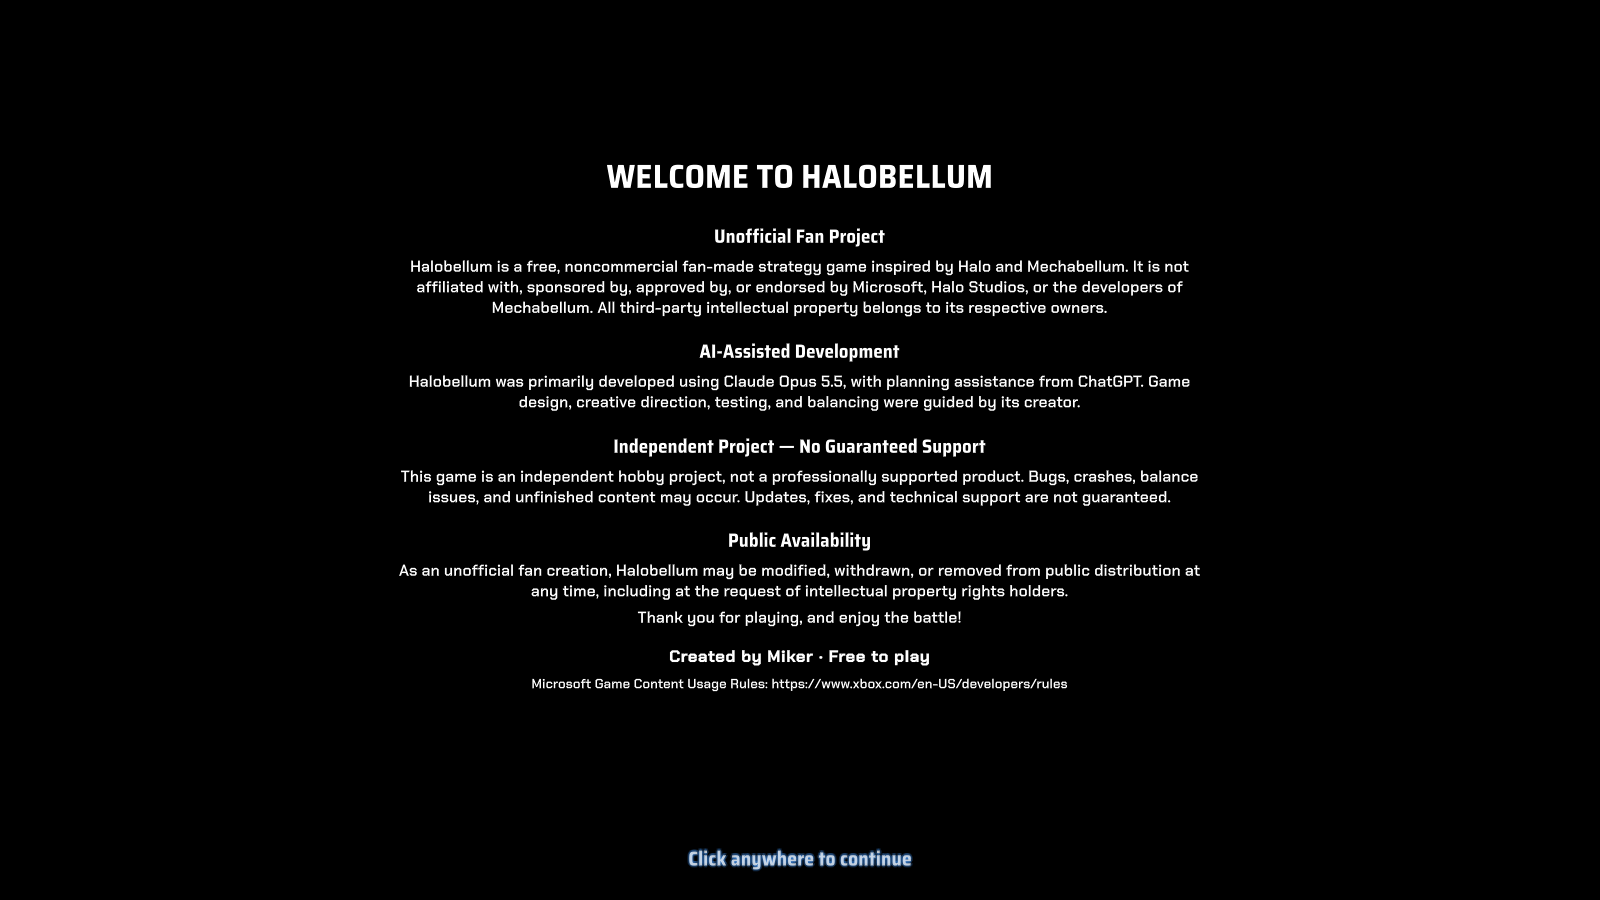
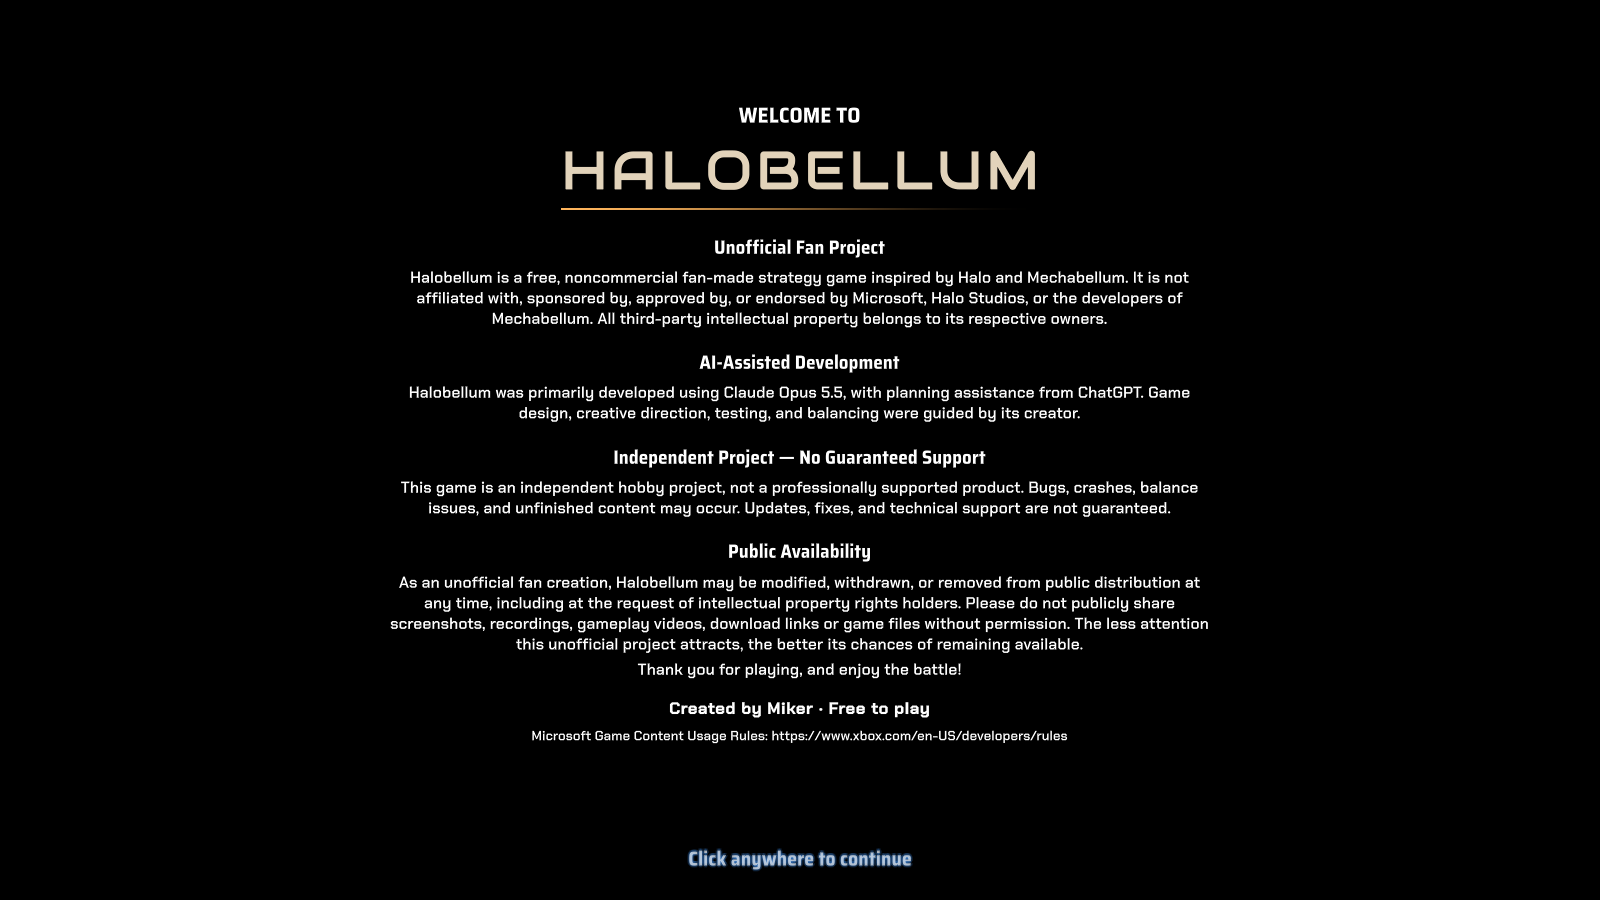
The disclaimer's request not to share and HALOBELLUM in the menu's title font and colour; the version in small print in the main menu's lower left (D100); the picture run also takes the menu; tests

Changed region(s): [[0.25, 0.2489, 0.75, 0.84], [0.3438, 0.0933, 0.6562, 0.2178]]

diff --git a/Assets/_Project/Scripts/UI/Menu/Disclaimer.cs b/Assets/_Project/Scripts/UI/Menu/Disclaimer.cs
@@ -1,6 +1,6 @@
 // Disclaimer.cs
 // The owner's disclaimer (D96), shown once each time the game starts, before the main menu: white text on black, centred, and a glowing
-// "Click anywhere to continue" that pulses. A click or a key goes on to the menu, which then fades in (MainMenuHud). The link to Microsoft's
+// "Click anywhere to continue" that pulses. HALOBELLUM is written as the main menu writes it: its title font and colour, spaced, underlined in its accent. A click or a key goes on to the menu, which then fades in (MainMenuHud). The link to Microsoft's
 // Game Content Usage Rules opens in the browser when clicked, and does not go on. The text shrinks to fit any window.
 // It is skipped in batch runs (tests) and in the picture runs (a -...Demo or -gallery flag); -disclaimerPicture <png> shows it, saves a
 // picture of it and quits.
@@ -17,12 +17,13 @@ namespace Halobellum.UI
         public const string Link = "https://www.xbox.com/en-US/developers/rules";
         public const string Continue = "Click anywhere to continue";
 
-        private enum Kind { Title, Heading, Text, Signature, Link }
+        private enum Kind { Title, Brand, Heading, Text, Signature, Link }
 
         // The owner's words, as given (2026-11-07).
         private static readonly (Kind kind, string text)[] Lines =
         {
-            (Kind.Title, "WELCOME TO HALOBELLUM"),
+            (Kind.Title, "WELCOME TO"),
+            (Kind.Brand, MainMenuHud.Title),
             (Kind.Heading, "Unofficial Fan Project"),
             (Kind.Text, "Halobellum is a free, noncommercial fan-made strategy game inspired by Halo and Mechabellum. It is not affiliated with, sponsored by, approved by, or endorsed by Microsoft, Halo Studios, or the developers of Mechabellum. All third-party intellectual property belongs to its respective owners."),
             (Kind.Heading, "AI-Assisted Development"),
@@ -30,7 +31,7 @@ namespace Halobellum.UI
             (Kind.Heading, "Independent Project — No Guaranteed Support"),
             (Kind.Text, "This game is an independent hobby project, not a professionally supported product. Bugs, crashes, balance issues, and unfinished content may occur. Updates, fixes, and technical support are not guaranteed."),
             (Kind.Heading, "Public Availability"),
-            (Kind.Text, "As an unofficial fan creation, Halobellum may be modified, withdrawn, or removed from public distribution at any time, including at the request of intellectual property rights holders."),
+            (Kind.Text, "As an unofficial fan creation, Halobellum may be modified, withdrawn, or removed from public distribution at any time, including at the request of intellectual property rights holders. Please do not publicly share screenshots, recordings, gameplay videos, download links or game files without permission. The less attention this unofficial project attracts, the better its chances of remaining available."),
             (Kind.Text, "Thank you for playing, and enjoy the battle!"),
             (Kind.Signature, "Created by Miker · Free to play"),
             (Kind.Link, "Microsoft Game Content Usage Rules: " + Link),
@@ -68,7 +69,7 @@ namespace Halobellum.UI
             return true;
         }
 
-        private static GUIStyle _title, _heading, _text, _signature, _link, _continue;
+        private static GUIStyle _title, _brand, _heading, _text, _signature, _link, _continue;
         private static int _sizedFor;
 
         /// <summary>Draws it over the whole window (in IMGUI's scaled units). Returns true when a click or a key asks to go on.</summary>
@@ -96,6 +97,16 @@ namespace Halobellum.UI
             {
                 GUIStyle style = StyleOf(kind);
                 y += GapBefore(kind) * scale;
+                if (kind == Kind.Brand)
+                {
+                    // As the main menu's title: its font and colour, spaced, with the accent line under it.
+                    float spacing = BrandSpacing(scale), wide = SpacedWidth(text, _brand, spacing), tall = BrandHeight();
+                    float left = x + (column - wide) * 0.5f;
+                    MenuStyle.SpacedText(left, y, text, _brand, spacing, Color.white);
+                    MenuStyle.FadeRight(new Rect(left, y + tall + 4f * scale, wide, 2f), MenuStyle.Accent);
+                    y += tall + 10f * scale;
+                    continue;
+                }
                 float h = style.CalcHeight(new GUIContent(text), column);
                 var rect = new Rect(x, y, column, h);
                 if (kind == Kind.Link)
@@ -142,14 +153,28 @@ namespace Halobellum.UI
             return false;
         }
 
-        private static float GapBefore(Kind kind) => kind == Kind.Heading ? 22f : kind == Kind.Signature ? 22f : kind == Kind.Link ? 10f : kind == Kind.Text ? 6f : 0f;
+        private static float BrandSpacing(float scale) => 7f * scale * BrandSize / 108f; // The menu spaces its 108-point title by 7.
+
+        private static float BrandHeight() => _brand.CalcSize(new GUIContent("H")).y;
+
+        /// <summary>How wide MenuStyle.SpacedText draws this text.</summary>
+        private static float SpacedWidth(string text, GUIStyle style, float spacing)
+        {
+            float width = 0f;
+            foreach (char letter in text) width += style.CalcSize(new GUIContent(letter.ToString())).x + spacing;
+            return width - spacing;
+        }
+
+        private const int BrandSize = 66;
+
+        private static float GapBefore(Kind kind) => kind == Kind.Brand ? 4f : kind == Kind.Heading ? 22f : kind == Kind.Signature ? 22f : kind == Kind.Link ? 10f : kind == Kind.Text ? 6f : 0f;
 
         private static GUIStyle StyleOf(Kind kind) => kind == Kind.Title ? _title : kind == Kind.Heading ? _heading : kind == Kind.Signature ? _signature : kind == Kind.Link ? _link : _text;
 
         private static float Measure(float column)
         {
             float total = 0f;
-            foreach (var (kind, text) in Lines) total += GapBefore(kind) + StyleOf(kind).CalcHeight(new GUIContent(text), column);
+            foreach (var (kind, text) in Lines) total += GapBefore(kind) + (kind == Kind.Brand ? BrandHeight() + 10f * _sizedFor / 1000f : StyleOf(kind).CalcHeight(new GUIContent(text), column));
             return total;
         }
 
@@ -167,7 +192,8 @@ namespace Halobellum.UI
                 style.margin = new RectOffset(0, 0, 0, 0);
                 return style;
             }
-            _title = Make(MenuStyle.Heading, 40, FontStyle.Normal, TextAnchor.UpperCenter);
+            _title = Make(MenuStyle.Heading, 26, FontStyle.Normal, TextAnchor.UpperCenter);
+            _brand = new GUIStyle(MenuStyle.Title) { fontSize = Mathf.Max(20, Mathf.RoundToInt(BrandSize * scale)) }; // The menu title's own font and colour (its ink).
             _heading = Make(MenuStyle.Heading, 23, FontStyle.Normal, TextAnchor.UpperCenter);
             _text = Make(MenuStyle.Body, 19, FontStyle.Normal, TextAnchor.UpperCenter);
             _signature = Make(MenuStyle.Body, 19, FontStyle.Bold, TextAnchor.UpperCenter);

diff --git a/Assets/_Project/Scripts/UI/Menu/MainMenuHud.cs b/Assets/_Project/Scripts/UI/Menu/MainMenuHud.cs
@@ -2,7 +2,7 @@
 // The main menu's screen (M10), in the MainMenu scene over MenuBackdrop's picture: the title, and two pages of buttons. The first has Play, Settings and Quit.
 // Play's page has Faction mode, Unlock Skirmish mode, Sandbox and Back: a chosen mode shows a panel on the right with its settings and Start, and the Sandbox leaves at once.
 // The first time it shows after the game starts, the owner's disclaimer (Disclaimer, D96) comes first, and the menu fades in once it is clicked away.
-// It fades in from black and fades out before a scene change. Esc steps back: the card list, then Play's page, and it closes Settings. It scales to any window (HudScale.ApplyFit).
+// Its version is in small print in the lower left (D100). It fades in from black and fades out before a scene change. Esc steps back: the card list, then Play's page, and it closes Settings. It scales to any window (HudScale.ApplyFit).
 // Difficulty and base health are remembered (GameSettings). The card filter starts at All cards each time this screen loads, and no mode is chosen.
 // The buttons call plain public methods, which a batch run's tests can call too, since a batch run draws no IMGUI.
 // Depends on: Disclaimer, GameFlow, GameSettings, MenuStyle, SettingsScreen, Halobellum.Economy, Unity Input System.
@@ -155,7 +155,7 @@ namespace Halobellum.UI
             if (keyboard != null && keyboard.escapeKey.wasPressedThisFrame) HandleEscape();
         }
 
-        /// <summary>With -disclaimerPicture &lt;png&gt;: a picture of the disclaimer after a moment, then the game quits.</summary>
+        /// <summary>With -disclaimerPicture &lt;png&gt;: a picture of the disclaimer after a moment, then one of the menu once it has faded in (&lt;png&gt; with _menu), then the game quits.</summary>
         private void TakeDisclaimerPicture()
         {
             string[] args = Environment.GetCommandLineArgs();
@@ -166,8 +166,23 @@ namespace Halobellum.UI
             {
                 ScreenCapture.CaptureScreenshot(args[at + 1]);
                 _pictureAt = 0f;
-                Invoke(nameof(QuitAfterPicture), 1f);
+                Invoke(nameof(GoOnForPicture), 1f);
             }
+        }
+
+        private void GoOnForPicture()
+        {
+            Disclaimer.Pending = false;
+            _shownAt = Time.unscaledTime;
+            Invoke(nameof(MenuPicture), FadeInSeconds + 1.5f);
+        }
+
+        private void MenuPicture()
+        {
+            string[] args = Environment.GetCommandLineArgs();
+            string path = args[Array.IndexOf(args, "-disclaimerPicture") + 1];
+            ScreenCapture.CaptureScreenshot(System.IO.Path.ChangeExtension(path, null) + "_menu.png");
+            Invoke(nameof(QuitAfterPicture), 1f);
         }
 
         private void QuitAfterPicture() => Application.Quit();
@@ -233,7 +248,13 @@ namespace Halobellum.UI
             if (_page == Page.Play) DrawPlayPage(left, y);
             else DrawMainPage(left, y);
             GUI.enabled = true;
+
+            // The game's version, small, in the lower left (the owner, D100): Unity's Player Settings version.
+            GUI.Label(new Rect(16f, height - 30f, 300f, 22f), VersionLabel, MenuStyle.Small);
         }
+
+        /// <summary>What the lower left of the menu says: the version set in Unity's Player Settings.</summary>
+        public static string VersionLabel => "Version " + Application.version;
 
         private void DrawMainPage(float left, float y)
         {

diff --git a/Assets/Tests/EditMode/Unity/DisclaimerTests.cs b/Assets/Tests/EditMode/Unity/DisclaimerTests.cs
@@ -15,13 +15,19 @@ namespace Halobellum.Tests
         public void ItSays_TheOwnersWords_InOrder()
         {
             string[] lines = Disclaimer.Text.ToArray();
-            Assert.AreEqual("WELCOME TO HALOBELLUM", lines[0]);
+            Assert.AreEqual("WELCOME TO", lines[0]);
+            Assert.AreEqual(MainMenuHud.Title, lines[1], "HALOBELLUM, drawn as the menu's title.");
+            StringAssert.Contains("Please do not publicly share screenshots, recordings, gameplay videos, download links or game files without permission. The less attention this unofficial project attracts, the better its chances of remaining available.",
+                lines.First(l => l.StartsWith("As an unofficial fan creation")), "The owner's addition ends Public Availability (D100).");
             CollectionAssert.IsSubsetOf(new[] { "Unofficial Fan Project", "AI-Assisted Development", "Public Availability", "Thank you for playing, and enjoy the battle!" }, lines);
             StringAssert.Contains("Claude Opus 5.5", string.Join(" ", lines));
             StringAssert.Contains("Created by Miker", string.Join(" ", lines));
             StringAssert.EndsWith(Disclaimer.Link, lines.Last());
             Assert.AreEqual("https://www.xbox.com/en-US/developers/rules", Disclaimer.Link);
         }
+
+        [Test]
+        public void TheMenu_ShowsItsVersion() => Assert.AreEqual("Version " + UnityEngine.Application.version, MainMenuHud.VersionLabel);
 
         [TestCase(false, new string[0], true)]
         [TestCase(false, new[] { "-screen-width", "1600" }, true)]

diff --git a/DECISIONS.md b/DECISIONS.md
@@ -100,3 +100,4 @@ Agents record here any design question, interpretation, or proposed change that 
 | D94 | 2026-11-07 | **Asked by the owner**, for your review; the old menu kept to go back to | The main menu remade as a cinematic battlefield, vehicles only | The main menu (Scenes/MainMenu, built by `MenuCinematicBuilder`, moved by `MenuCinematic`) is now a battle of the three sides' vehicles under a storm at dusk, seen in a 52-second loop of five camera shots, each a slow move (a push, a dolly, a crane) with a fade through black between them, drawn under the menu's own screen. **Vista:** the whole field from high behind the human line. **Line:** low along the UNSC line as its tanks fire, the Scarab far off. **Covenant:** among the Covenant's Wraiths and waiting Ghosts, the Scarab striding away toward the humans. **Flood:** low on the creep among its growths, an infested Wraith in front, an infected Phantom over it. **Titan:** up at the Scarab from the human side as it sweeps the field with its beam. The UNSC holds the west behind concrete barriers and ruins (Scorpions, Mantises, Warthogs, an Elephant, a hovering Pelican; Pelicans, Hornets and a Longsword overhead); the Covenant comes from the north-east under three glowing spires (Wraiths lobbing plasma mortars, Ghosts waiting and racing in, Phantoms hovering, Banshees diving); the Flood holds the south-east over its creep among growths of biomass (infested Wraiths, Scorpions, Warthogs and racing Ghosts, an infected Phantom, infested Banshees and Hornets and an infected Pelican, spores drifting). The Scarab, the centrepiece, walks the length of the field once a loop on planted feet (the battle's WalkerLegs) and fires its beam twice a loop. Only the vehicles' guns fire, now and then: tank shells with muzzle flashes and Wraith mortars burst where they land; blasts go off among each army every two to three seconds; wrecks burn with flickering light; smoke rises in columns, fog lies low, ash and embers drift past the lens. The sky (`MenuCinematicSky.shader`) has racing storm clouds torn open around a low sun, fires along the horizon, lightning that lights the clouds near its stroke and draws a bolt, and an alien warship far off glassing the land beyond the hills (an original silhouette, drawn by the sky). Every shot keeps its subject in the right half, where the menu's dark panel leaves the picture clear. **The same day, at the owner's word:** the first version's soldiers, Covenant infantry and Flood forms (and their rifle tracers, plasma and needles) are gone, as too many shots and melee attacks were aimed at nothing; the remaining guns fire half as often. **The old menu is kept** as Scenes/MainMenuClassic (`MainMenuSceneBuilder`, unchanged): **Settings > Menu background > Classic** opens it instead, from the start and whenever the game returns to the menu (`Ui.MenuBackground`, remembered); a test tool always has the cinematic one. |
 | D95 | 2026-11-07 | **Asked by the owner**: the tournament after the animations; no change needed | The Hard AI tournament after D88 to D93: every sub-faction 48% to 52% | After the Grenadier's blade (D88), the Captain's laser beam (D91) and the animations (D90, D92, D93): the counter web measured again for the two units whose weapons changed (Brute Grenadier, Hunter Captain), the AI's matchup table rebuilt from it, the data exported and two rounds of the Hard AI tournament played at 2000 base health (seeds 0 and 1, 7,200 matches, 15 threads, about 8 minutes each). **Sub-factions:** Banished 52%, Noble 51%, Unggoy Rebellion 51%, Aerospace Command 50%, Covenant-based 50%, Lekgolo Colony 49%, Armored Division 49%, UNSC-based 48% (good to about 3 points); factions Covenant 51%, UNSC 50%, Flood 49%. All inside 46 to 54, so no price or unit was changed. **Seen, not changed:** the AI rarely fields the Stalker Form (under 1% of matches), the Infected Pelican (1%) and the Spartan CQB (3%), so their numbers say little; the Glassing Beam (edge -16) and Gravemind's Wrath (-20) go with losing sides, though late cards mostly go to sides already behind (morning items 158 and 159). Report: `Docs/Balance/hard_ai_tournament_d95.txt`. |
 | D96 | 2026-11-07 | **Asked by the owner** | The owner's disclaimer before the main menu | The first time the main menu shows after the game starts, the owner's disclaimer comes first, in the owner's words: white text on black, centred (the title, then Unofficial Fan Project, AI-Assisted Development, Independent Project, Public Availability, the thanks, Created by Miker, and the link to Microsoft's Game Content Usage Rules), with a glowing, pulsing "Click anywhere to continue" at the bottom. A click or a key goes on, and the menu fades in from the black; clicking the link opens it in the browser instead. The text shrinks to fit any window. It isn't shown again until the game is started again, nor in batch runs (tests) or picture runs; `-disclaimerPicture <png>` shows it, saves a picture and quits (`UI/Menu/Disclaimer.cs`, `MainMenuHud`). Picture: `Docs/M10/disclaimer_d96.png`. |
+| D100 | 2026-11-07 | **Asked by the owner** | The disclaimer's request not to share, HALOBELLUM in the menu's title font, the version on the menu | **Disclaimer (D96):** Public Availability ends with the owner's words: "Please do not publicly share screenshots, recordings, gameplay videos, download links or game files without permission. The less attention this unofficial project attracts, the better its chances of remaining available." Its title is now "WELCOME TO" over HALOBELLUM written as the main menu writes it: the menu title's font and cream ink, letter-spaced, with the accent line under it. **Main menu:** the version (Unity's Player Settings version, now 0.1.0) in small print in the lower left, "Version 0.1.0" (`MainMenuHud.VersionLabel`). `-disclaimerPicture` now also takes a picture of the menu once it has faded in. Pictures: `Docs/M10/disclaimer_d96.png`, `Docs/M10/menu_version_d100.png`. D97 to D99 are the other session's. |

diff --git a/DAILY_REPORT.md b/DAILY_REPORT.md
@@ -2,6 +2,11 @@
 
 Earlier reports are in this file's Git history. **M10 is built and merged**, and the Infected Pelican now dives. It is waiting for your play test. **Start with `MORNING_DECISIONS.md`.** It lists every choice I made for you.
 
+## The disclaimer's addition and the version (D100)
+- **In the game:** Public Availability ends with your request not to share the game publicly; HALOBELLUM on the disclaimer is in the main menu's title font and colour; the main menu shows "Version 0.1.0" small in the lower left.
+- **Checked:** the disclaimer and menu tests; pictures of the disclaimer at 1600x900 and 1024x768 and of the menu (`Docs/M10/menu_version_d100.png`).
+- **Note:** the version comes from Unity's Player Settings (Version), 0.1.0 today; change it there and the menu follows.
+
 ## Your disclaimer before the main menu (D96)
 - **In the game:** when the game starts, your disclaimer shows first: white on black, your words as given, and a glowing "Click anywhere to continue". A click or a key goes on to the menu, which fades in; the Microsoft link opens in the browser. It shows once per start.
 - **Checked:** new tests (the words in order; shown for a player, not in tests or picture runs) and the menu tests; pictures at 1600x900 and 1024x768 (`Docs/M10/disclaimer_d96.png`).

diff --git a/PROJECT_BIBLE.md b/PROJECT_BIBLE.md
@@ -544,6 +544,7 @@ Complete in order. A milestone is done only when every criterion passes and the 
 | 2026-11-07 | The Seeder, the Pure Form Tank and the Abomination are animated bodies; a flier's baked body falls to the ground as it dies | Per the project owner (D93) |
 | 2026-11-07 | The main menu is a cinematic battlefield of the three sides' vehicles (no soldiers or Flood forms) in five fading camera shots; the old menu stays as Classic, chosen in Settings | Per the project owner (D94) |
 | 2026-11-07 | The owner's disclaimer shows once each time the game starts, before the main menu | Per the project owner (D96) |
+| 2026-11-07 | The disclaimer asks players not to share the game publicly and writes HALOBELLUM as the menu does; the menu shows the version | Per the project owner (D100) |
 
 ## 18. Assumptions to confirm
 

diff --git a/PROGRESS.md b/PROGRESS.md
@@ -179,6 +179,7 @@ Asked for by the owner as one overnight job. Built in parallel, then merged and 
 - [x] The main menu remade as a cinematic battlefield: the three sides' vehicles at war under a storm, five camera shots fading into one another, the Scarab walking and firing its beam; the old menu kept as Classic in Settings (D94)
 - [x] Hard AI tournament after the animations: every sub-faction 48% to 52%, no change (D95)
 - [x] The owner's disclaimer before the main menu (D96)
+- [x] The disclaimer's request not to share, HALOBELLUM in the menu's font, the version on the menu (D100)
 - [ ] Models for the remaining units (see Assets_to_Download.md)
 - [ ] The owner's play test of M10
 
